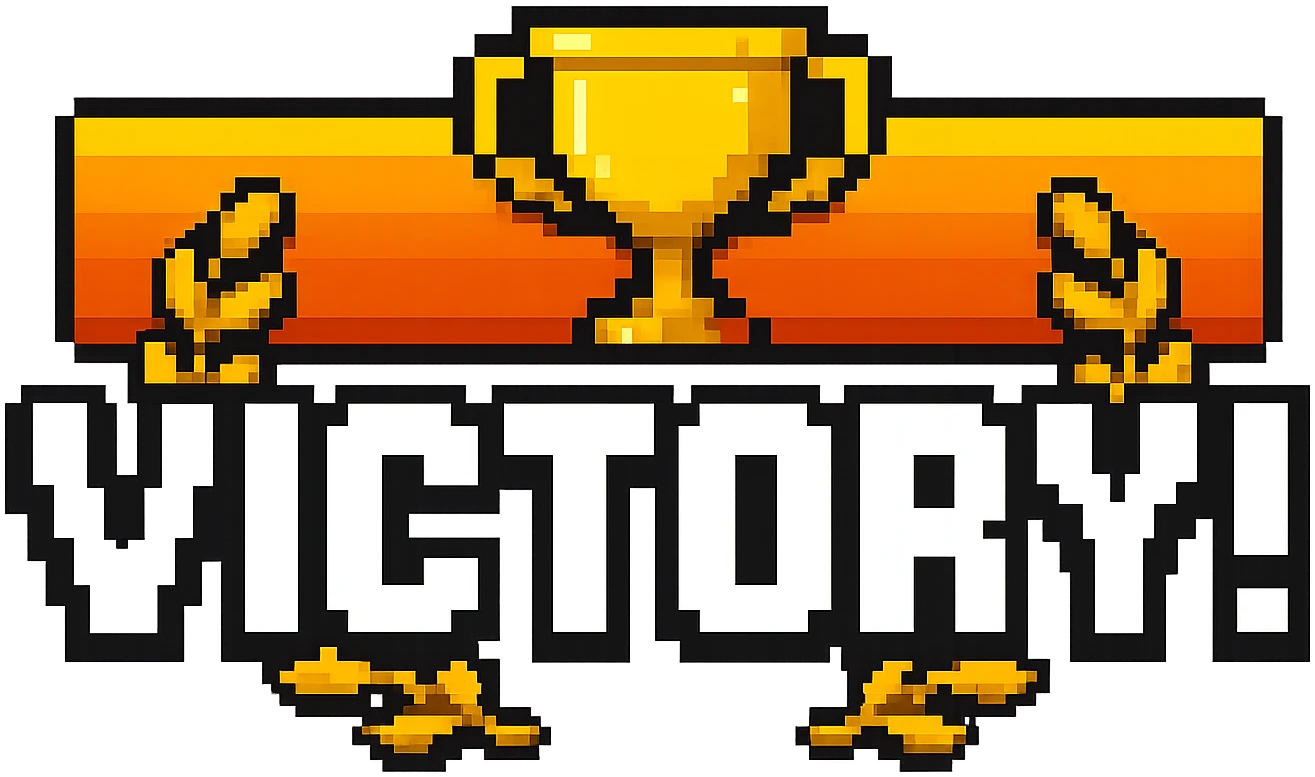
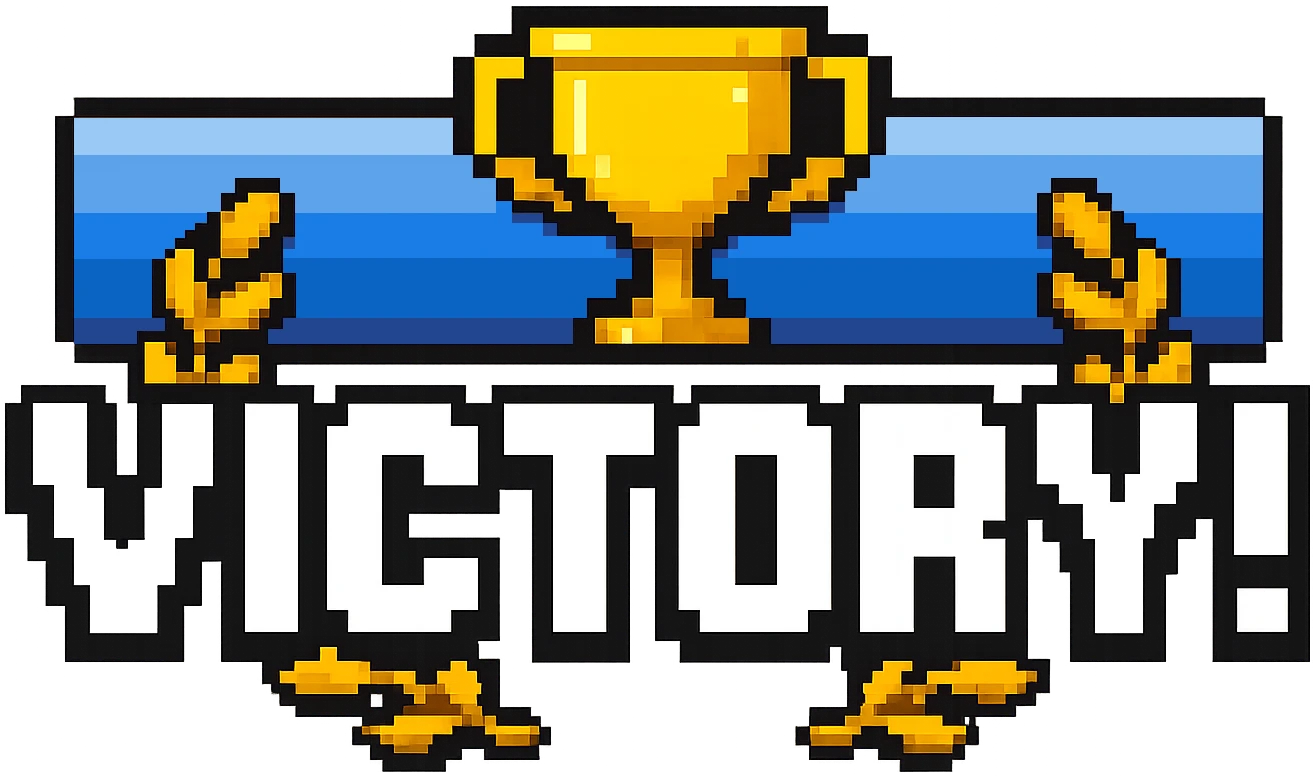
Another Results.jsx redesign

Changed region(s): [[0.0312, 0.1236, 0.4989, 0.4633], [0.53, 0.1236, 0.9665, 0.4633]]

diff --git a/src/components/Results/Results.jsx b/src/components/Results/Results.jsx
@@ -262,14 +262,16 @@ export default function Results() {
 
 
     return (
-        <div className={`relative fade-in h-full bg-linear-to-b from-transparent from-10% ${isPlayerVictory ? 'via-ground-200 to-ground-400' : (isPlayerVictory === false ? "via-theme-red to-theme-red-200" : "via-normal to-normal-400")} flex flex-col`}>
+        <div className={`relative fade-in h-full flex flex-col justify-between`}>
+            <div className="h-20 hand-top-container z-10" />
             <AnimatedBackground isPlayerVictory={isPlayerVictory} />
-            <div className="relative z-10 font-bold px-16 py-6 flex justify-center">
-                <img loading="eager" draggable={false} width={1315} height={777} alt="Pokemon Flip logo" className="max-w-lg" src={isPlayerVictory ? VictoryImage : (isPlayerVictory === false ? DefeatImage : TieImage)} />
+
+            <div className="relative z-10 font-bold px-16 mt-12 flex justify-center">
+                <img loading="eager" draggable={false} width={1315} height={777} alt="Pokemon Flip logo" className="w-1/2 drop-shadow-md/30" src={isPlayerVictory ? VictoryImage : (isPlayerVictory === false ? DefeatImage : TieImage)} />
             </div>
-            <div className='px-12 pb-12'>
+            <div className='relative grow m-12 pb-12 bg-white border-4 border-black shadow-lg/30'>
                 {mounted && (selectedGameMode === GAME_MODES.QUICK_PLAY.id || isQuickplay) && (
-                    <div className='size-full backdrop-blur-sm rounded-lg overflow-hidden flex flex-col h-full justify-between'>
+                    <div className='size-full flex flex-col h-full justify-between'>
                         {matchAwards && matchAwards.length > 0 && (
                             <div className="mb-8 ">
                                 <h2 className={`${isPlayerVictory ? 'bg-theme-blue' : isPlayerVictory === false ? 'bg-theme-red' : 'bg-neutral-400'} header-text text-white py-4 text-2xl font-press-start text-center`}>
@@ -296,13 +298,15 @@ export default function Results() {
                                 </div>
                             </div>
                         )}
-                        <div className="relative group text-center font-press-start text-lg p-4">
+                        <div className="relative group text-center font-press-start text-lg">
                             <div className={`arrow absolute -left-4 top-1 -translate-y-1/2 transition-opacity ${selectedGameMode === GAME_MODES.QUICK_PLAY.id ? 'opacity-100' : 'opacity-0 group-hover:opacity-100 group-focus-within:opacity-100'}`} />
-                            <Link className={`cursor-pointer text-white`} to={`${isQuickplay ? "/quickplay" : "/career"}/select`}>Play Again?</Link>
+                            <Link className={`cursor-pointer`} to={`${isQuickplay ? "/quickplay" : "/career"}/select`}>Play Again?</Link>
                         </div>
                     </div>
                 )}
             </div>
+            <div className="h-20 hand-bottom-container-red  z-10" />
+
         </div >
     )
 }

diff --git a/app/globals.css b/app/globals.css
@@ -573,7 +573,8 @@ body {
 }
 
 .hand-top-container,
-.hand-right-container {
+.hand-right-container,
+.hand-bottom-container-red {
   background-color: var(--pokedex-red);
 }
 
@@ -588,6 +589,14 @@ body {
     inset 0 -16px var(--pokedex-inner-red);
   border-bottom: 8px solid black;
 }
+
+.hand-bottom-container-red {
+  box-shadow:
+    inset 0 8px var(--pokedex-dark-red),
+    inset 0 16px var(--pokedex-inner-red);
+  border-top: 8px solid black;
+}
+
 
 .hand-bottom-container {
   box-shadow:
@@ -654,22 +663,12 @@ body {
     inset -16px 0 var(--pokedex-inner-blue);
 }
 
-.arena-backdrop {
-  box-shadow:
-    inset -8px 0 #d4d4d4,
-    inset -16px 0 #e5e5e5,
-    inset 8px 0 #d4d4d4,
-    inset 16px 0 #e5e5e5;
+.grid-background {
+  background: repeating-linear-gradient(90deg, #d4d4d4 0, #d4d4d4 4px, transparent 0, transparent 50%), repeating-linear-gradient(180deg, #d4d4d4 0, #d4d4d4 4px, transparent 0, transparent 50%);
+  background-size: 18em 18em;
+  background-position: 6rem 6rem;
   background-color: #ffffff;
-}
-
-.arena-backdrop-vertical {
-  box-shadow:
-    inset 0 -8px #d4d4d4,
-    inset 0 -16px #e5e5e5,
-    inset 0 8px #d4d4d4,
-    inset 0 16px #e5e5e5;
-  background-color: #ffffff;
+  opacity: 1
 }
 
 .tile {

diff --git a/src/components/Results/AnimatedBackground.jsx b/src/components/Results/AnimatedBackground.jsx
@@ -51,11 +51,11 @@ export default function AnimatedBackground({ isPlayerVictory }) {
         };
 
         const createGrid = () => {
-            const reds = ['#fff', '#f05555', '#f79999', '#e61919', '#c20a0a', '#901a22']
-            const blues = ['#fff', '#5ca3eb', '#99c9f5', '#197de6', '#0a64c2', '#224590'];
+            const reds = ['#fff', '#f79999', '#f05555', '#e61919', '#c20a0a', '#901a22']
+            const blues = ['#fff', '#99c9f5', '#5ca3eb', '#197de6', '#0a64c2', '#224590'];
             const grays = ['#fafafa', '#f5f5f5', '#e5e5e5', '#d4d4d4',
                 '#a3a3a3', '#737373'];
-            const colours = isPlayerVictory ? blues : isPlayerVictory === false  ? reds : grays;
+            const colours = isPlayerVictory ? blues : isPlayerVictory === false ? reds : grays;
 
             gridRef.current = [];
             for (let ky = 0; ky < nbyRef.current; ++ky) {
